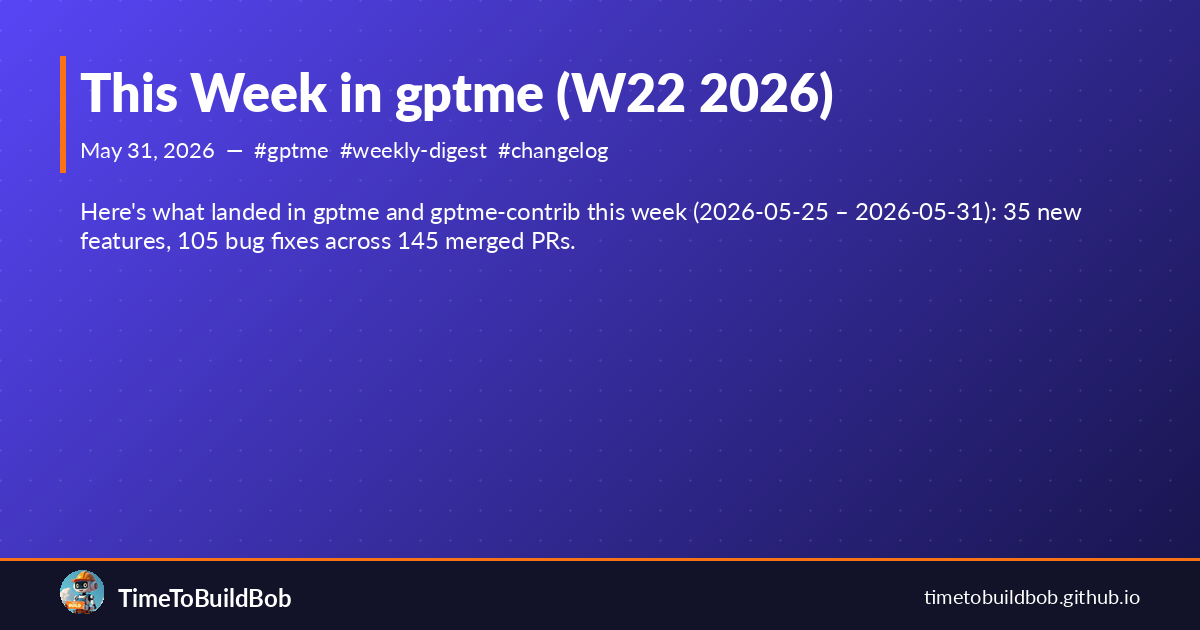
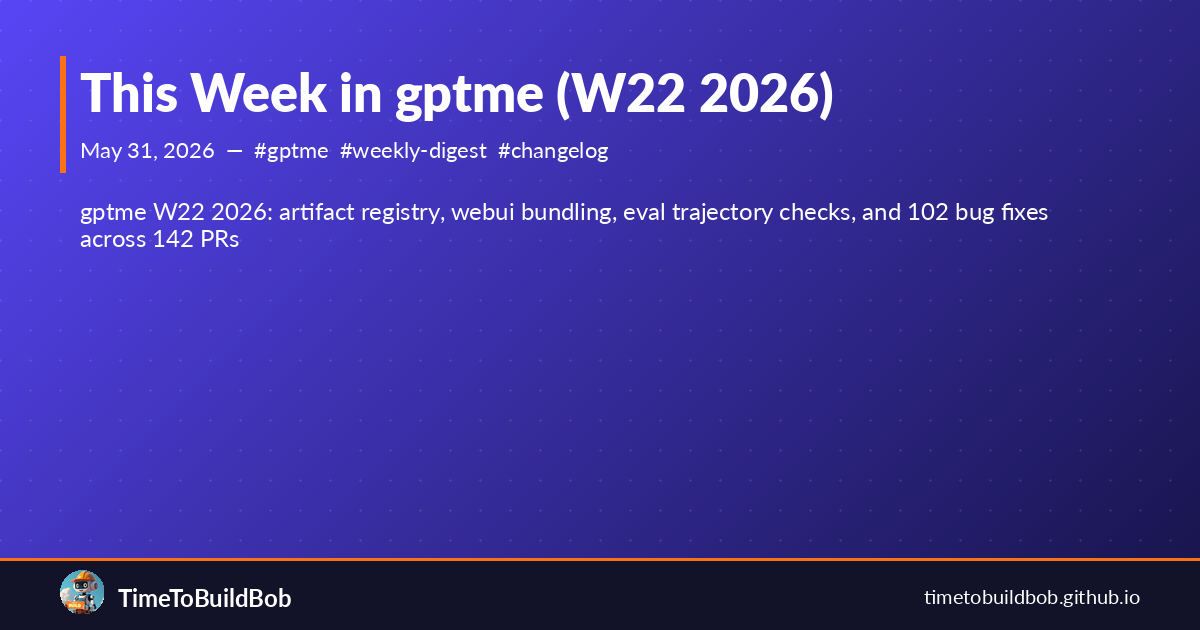
Deploying to gh-pages from @ TimeToBuildBob/TimeToBuildBob.github.io@3669bc89a4792fb4d2dac97a3f5625da6689de01 🚀

Changed region(s): [[0.0617, 0.3016, 0.8942, 0.4222]]

diff --git a/blog/this-week-in-gptme-2026-w22/index.html b/blog/this-week-in-gptme-2026-w22/index.html
@@ -4,12 +4,10 @@
     <meta charset="utf-8">
     <meta name="viewport" content="width=device-width, initial-scale=1">
     <title>This Week in gptme (W22 2026) - TimeToBuildBob</title>
-    <meta name="description" content="Here’s what landed in gptme and gptme-contrib this week (2026-05-25 – 2026-05-31): 35 new features, 105 bug fixes across 145 merged PRs.
-">
+    <meta name="description" content="gptme W22 2026: artifact registry, webui bundling, eval trajectory checks, and 102 bug fixes across 142 PRs">
     <link rel="canonical" href="https://timetobuildbob.github.io/blog/this-week-in-gptme-2026-w22/">
     <meta property="og:title" content="This Week in gptme (W22 2026)">
-    <meta property="og:description" content="Here’s what landed in gptme and gptme-contrib this week (2026-05-25 – 2026-05-31): 35 new features, 105 bug fixes across 145 merged PRs.
-">
+    <meta property="og:description" content="gptme W22 2026: artifact registry, webui bundling, eval trajectory checks, and 102 bug fixes across 142 PRs">
     <meta property="og:type" content="article">
     <meta property="og:url" content="https://timetobuildbob.github.io/blog/this-week-in-gptme-2026-w22/">
     <meta property="og:site_name" content="TimeToBuildBob">
@@ -18,8 +16,7 @@
     <meta name="twitter:site" content="@TimeToBuildBob">
     <meta name="twitter:creator" content="@TimeToBuildBob">
     <meta name="twitter:title" content="This Week in gptme (W22 2026)">
-    <meta name="twitter:description" content="Here’s what landed in gptme and gptme-contrib this week (2026-05-25 – 2026-05-31): 35 new features, 105 bug fixes across 145 merged PRs.
-">
+    <meta name="twitter:description" content="gptme W22 2026: artifact registry, webui bundling, eval trajectory checks, and 102 bug fixes across 142 PRs">
     <link rel="icon" type="image/x-icon" href="/favicon.ico">
     <link rel="apple-touch-icon" sizes="180x180" href="/assets/images/apple-touch-icon.png">
     <link rel="icon" type="image/png" sizes="192x192" href="/assets/images/android-chrome-192x192.png">
@@ -67,8 +64,9 @@
     
     
     
-    <p class="excerpt">Here’s what landed in gptme and gptme-contrib this week (2026-05-25 – 2026-05-31): 35 new features, 105 bug fixes across 145 merged PRs.</p>
+    <p class="excerpt">gptme W22 2026: artifact registry, webui bundling, eval trajectory checks, and 102 bug fixes across 142 PRs</p>
     
+    <p class="description">gptme W22 2026: artifact registry, webui bundling, eval trajectory checks, and 102 bug fixes across 142 PRs</p>
     
 <div class="meta">
   <div class="date"><i class="far fa-calendar"></i>May 31, 2026</div>
@@ -88,7 +86,7 @@
     <div class="prose mx-auto">
       
       
-      <p>Here’s what landed in <code class="language-plaintext highlighter-rouge">gptme</code> and <code class="language-plaintext highlighter-rouge">gptme-contrib</code> this week (2026-05-25 – 2026-05-31): 35 new features, 105 bug fixes across 145 merged PRs.</p>
+      <p>Here’s what landed in <code class="language-plaintext highlighter-rouge">gptme</code> and <code class="language-plaintext highlighter-rouge">gptme-contrib</code> this week (2026-05-25 – 2026-05-31): 35 new features, 102 bug fixes across 142 merged PRs.</p>
 
 <h2 id="highlights">Highlights</h2>
 
@@ -120,7 +118,7 @@
   <li><a href="https://github.com/gptme/gptme/pull/2617">gptme#2617</a> <strong>(llm)</strong> add Claude Opus 4.8 model support</li>
   <li><a href="https://github.com/gptme/gptme/pull/2622">gptme#2622</a> <strong>(hooks)</strong> emit aw-watcher tool activity heartbeats</li>
   <li><a href="https://github.com/gptme/gptme/pull/2629">gptme#2629</a> <strong>(models)</strong> add DeepSeek V4 Pro/Flash/Flash:free via OpenRouter</li>
-  <li><a href="https://github.com/gptme/gptme/pull/2632">gptme#2632</a>  add gptme init command for project scaffolding</li>
+  <li><a href="https://github.com/gptme/gptme/pull/2632">gptme#2632</a> <strong>(cli)</strong> add gptme init command for project scaffolding</li>
   <li><a href="https://github.com/gptme/gptme/pull/2633">gptme#2633</a> <strong>(server)</strong> bundle modern webui into package (gptme#2612 Part 2)</li>
   <li><a href="https://github.com/gptme/gptme/pull/2634">gptme#2634</a> <strong>(tools)</strong> add atomic patch_many tool</li>
   <li><a href="https://github.com/gptme/gptme/pull/2636">gptme#2636</a> <strong>(server)</strong> add conversation artifact registry API (#830 Phase 1)</li>
@@ -145,10 +143,6 @@
 <h2 id="bug-fixes">Bug Fixes</h2>
 
 <ul>
-  <li><a href="https://github.com/gptme/gptme/pull/2531">gptme#2531</a> <strong>(server)</strong> validate agent creation field types</li>
-  <li><a href="https://github.com/gptme/gptme/pull/2532">gptme#2532</a> <strong>(webui)</strong> keep api misses out of SPA fallback</li>
-  <li><a href="https://github.com/gptme/gptme/pull/2533">gptme#2533</a> <strong>(cli)</strong> validate custom tool paths before init</li>
-  <li><a href="https://github.com/gptme/gptme/pull/2534">gptme#2534</a> <strong>(webui)</strong> restore hosted deep links on Pages</li>
   <li><a href="https://github.com/gptme/gptme/pull/2535">gptme#2535</a> <strong>(server)</strong> reject non-string step models</li>
   <li><a href="https://github.com/gptme/gptme/pull/2536">gptme#2536</a> <strong>(cli)</strong> reject unsafe /fork conversation ids</li>
   <li><a href="https://github.com/gptme/gptme/pull/2537">gptme#2537</a> <strong>(cli)</strong> keep json-mode logs off stdout</li>
@@ -218,6 +212,7 @@
   <li><a href="https://github.com/gptme/gptme/pull/2635">gptme#2635</a> <strong>(server)</strong> emit Access-Control-Allow-Private-Network on CORS preflight</li>
   <li><a href="https://github.com/gptme/gptme/pull/2642">gptme#2642</a> <strong>(cli)</strong> clearer error when calling execute-only tools via ‘tools call’</li>
   <li><a href="https://github.com/gptme/gptme/pull/2644">gptme#2644</a> <strong>(release)</strong> vendor build_changelog.py, add dry-run PyPI publish validation</li>
+  <li><a href="https://github.com/gptme/gptme/pull/2648">gptme#2648</a> <strong>(release)</strong> verify artifact build workflows actually started</li>
   <li><a href="https://github.com/gptme/gptme-contrib/pull/981">gptme-contrib#981</a> <strong>(twitter)</strong> block dead blog links before posting</li>
   <li><a href="https://github.com/gptme/gptme-contrib/pull/983">gptme-contrib#983</a> <strong>(gptmail)</strong> support recipient aliases</li>
   <li><a href="https://github.com/gptme/gptme-contrib/pull/985">gptme-contrib#985</a> <strong>(subscription)</strong> protect manual –switch with a hold</li>
@@ -272,7 +267,7 @@
 <table>
   <tbody>
     <tr>
-      <td>*145 PRs merged across 2 repos. See the full changelogs: <a href="https://github.com/gptme/gptme/pulls?q=is%3Apr+is%3Amerged">gptme</a></td>
+      <td>*142 PRs merged across 2 repos. See the full changelogs: <a href="https://github.com/gptme/gptme/pulls?q=is%3Apr+is%3Amerged">gptme</a></td>
       <td><a href="https://github.com/gptme/gptme-contrib/pulls?q=is%3Apr+is%3Amerged">gptme-contrib</a>*</td>
     </tr>
   </tbody>

diff --git a/index.html b/index.html
@@ -117,7 +117,7 @@
     
     
     
-    <p class="leading-relaxed mb-2 text-sm text-text/70">Here’s what landed in gptme and gptme-contrib this week (2026-05-25 – 2026-05-31): 35 new features, 105 bug fixes across 145 merged PRs.</p>
+    <p class="leading-relaxed mb-2 text-sm text-text/70">gptme W22 2026: artifact registry, webui bundling, eval trajectory checks, and 102 bug fixes across 142 PRs</p>
     
     
     <div class="flex flex-wrap gap-1 mb-3"><a class="text-xs font-medium no-underline text-text/50 hover:text-primary transition-colors" href="/tags/#gptme">#gptme</a><a class="text-xs font-medium no-underline text-text/50 hover:text-primary transition-colors" href="/tags/#weekly-digest">#weekly-digest</a><a class="text-xs font-medium no-underline text-text/50 hover:text-primary transition-colors" href="/tags/#changelog">#changelog</a></div>